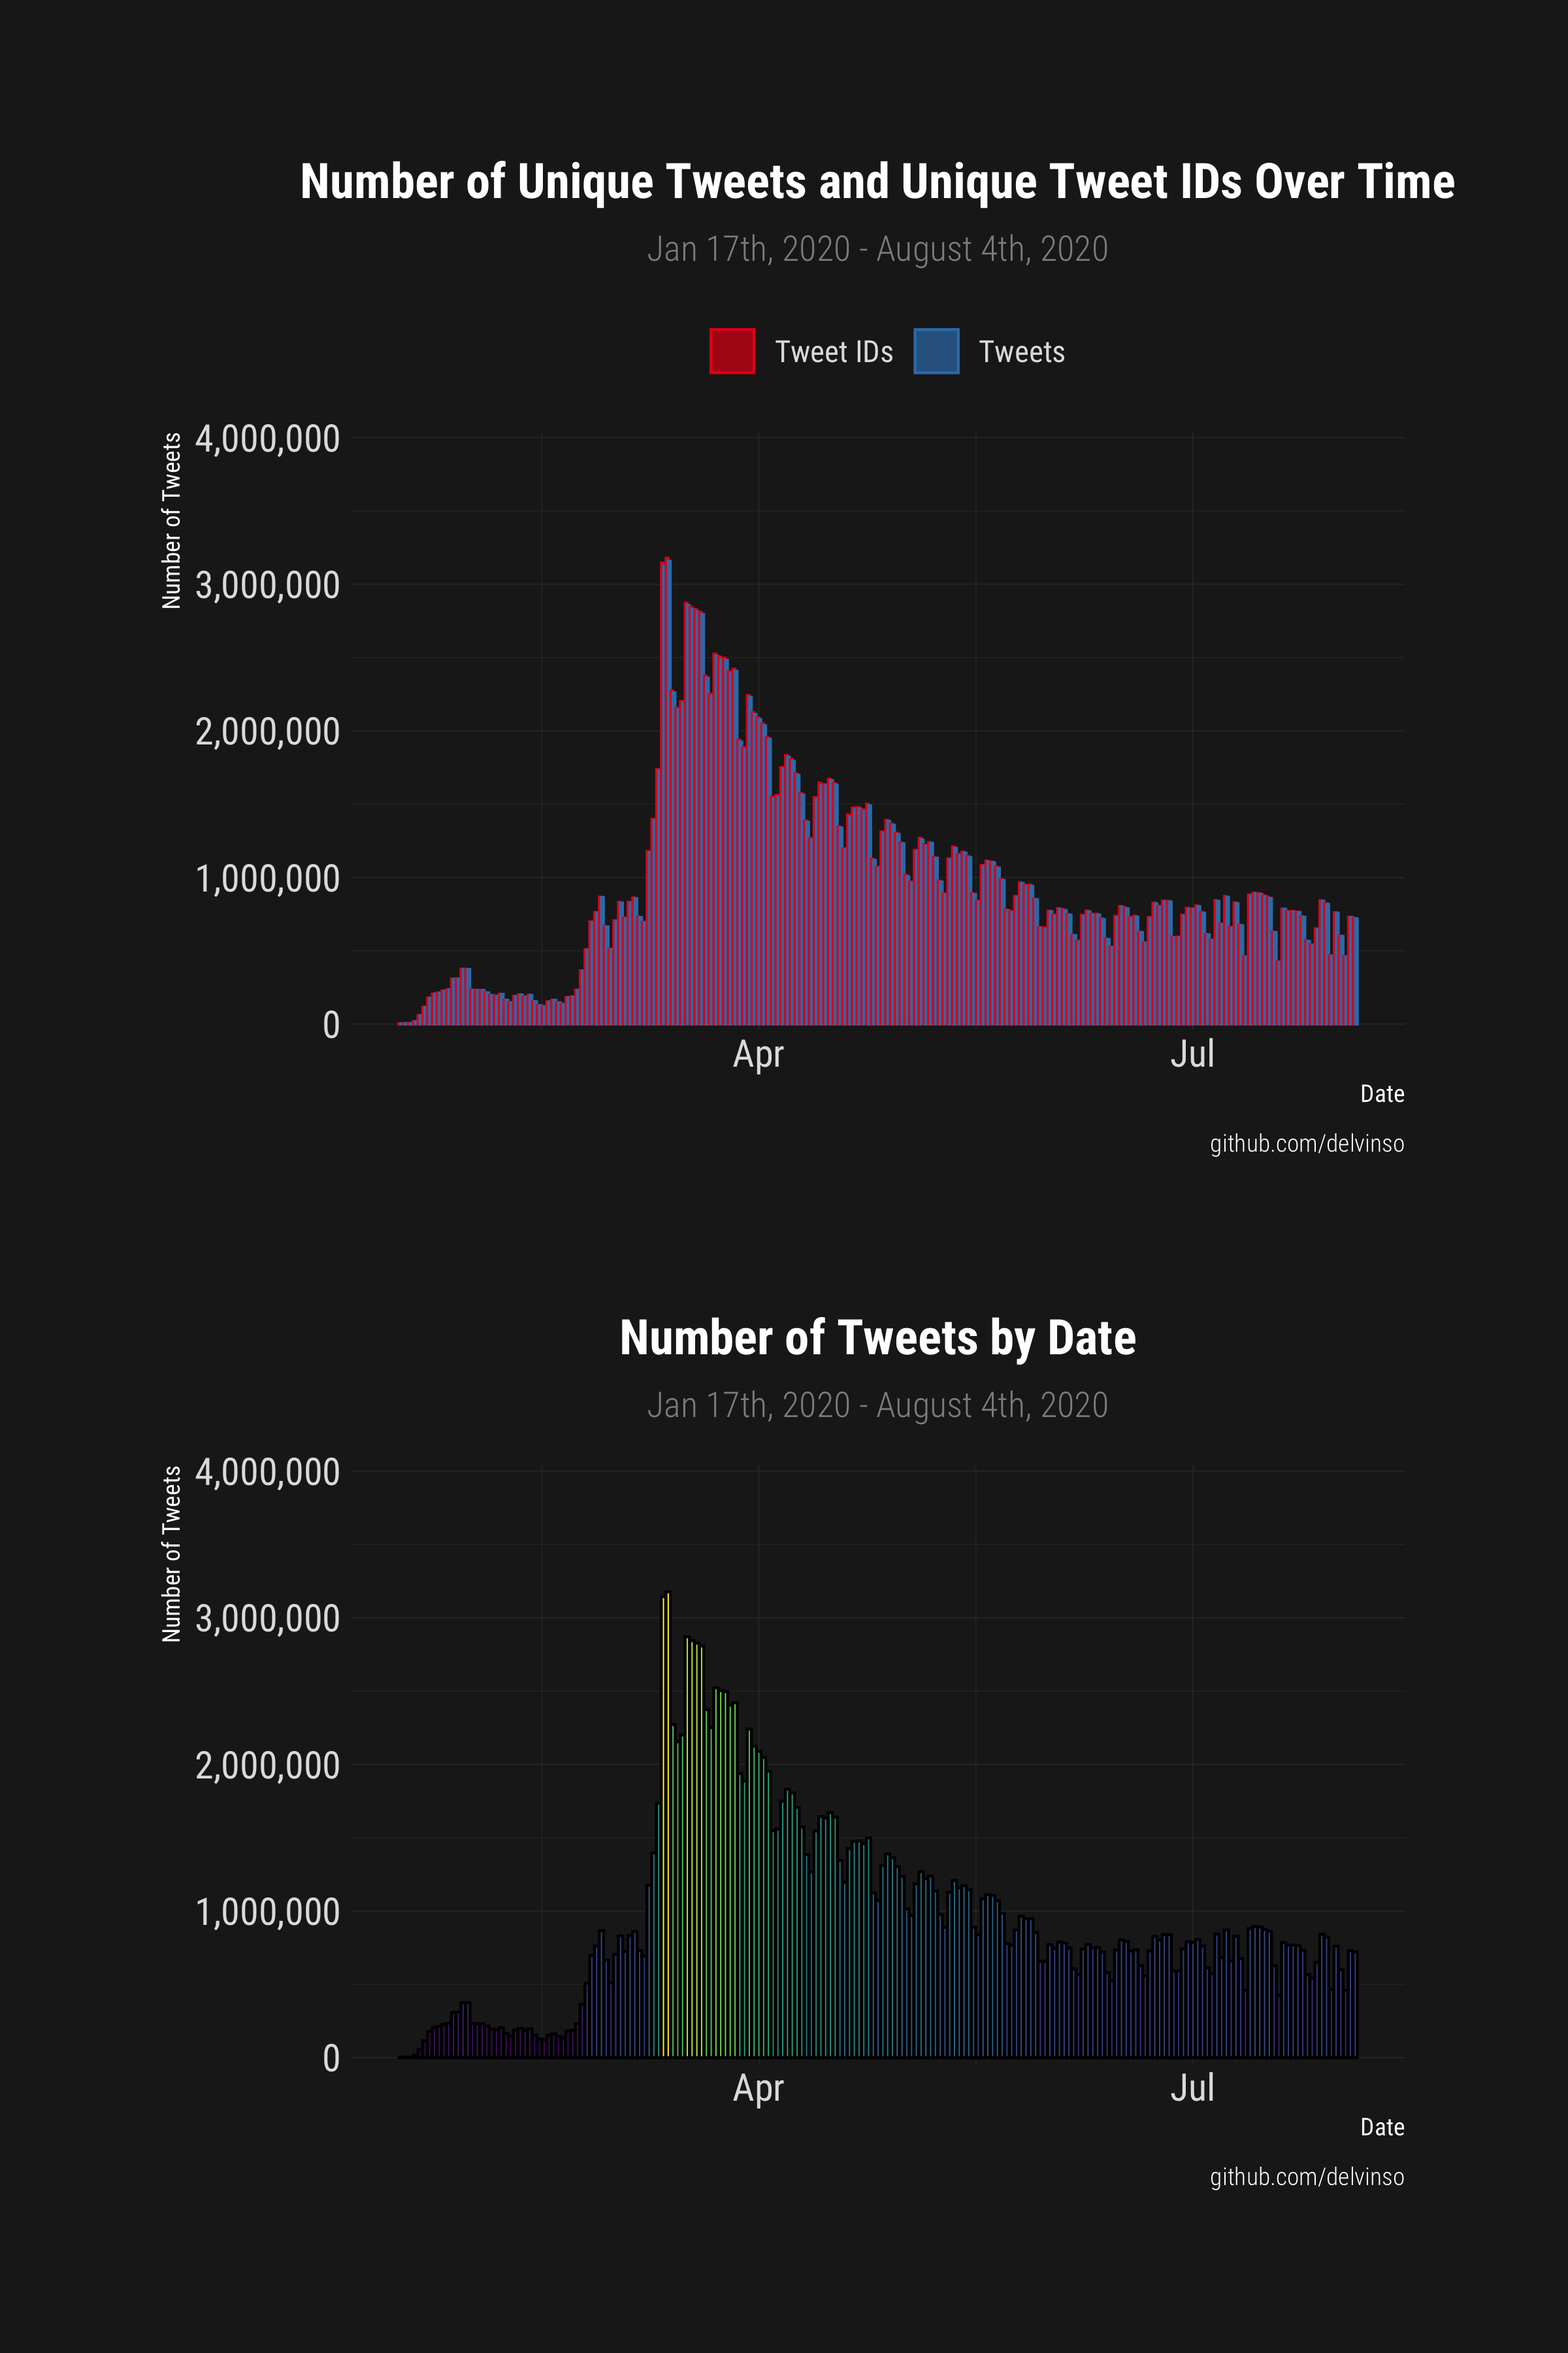
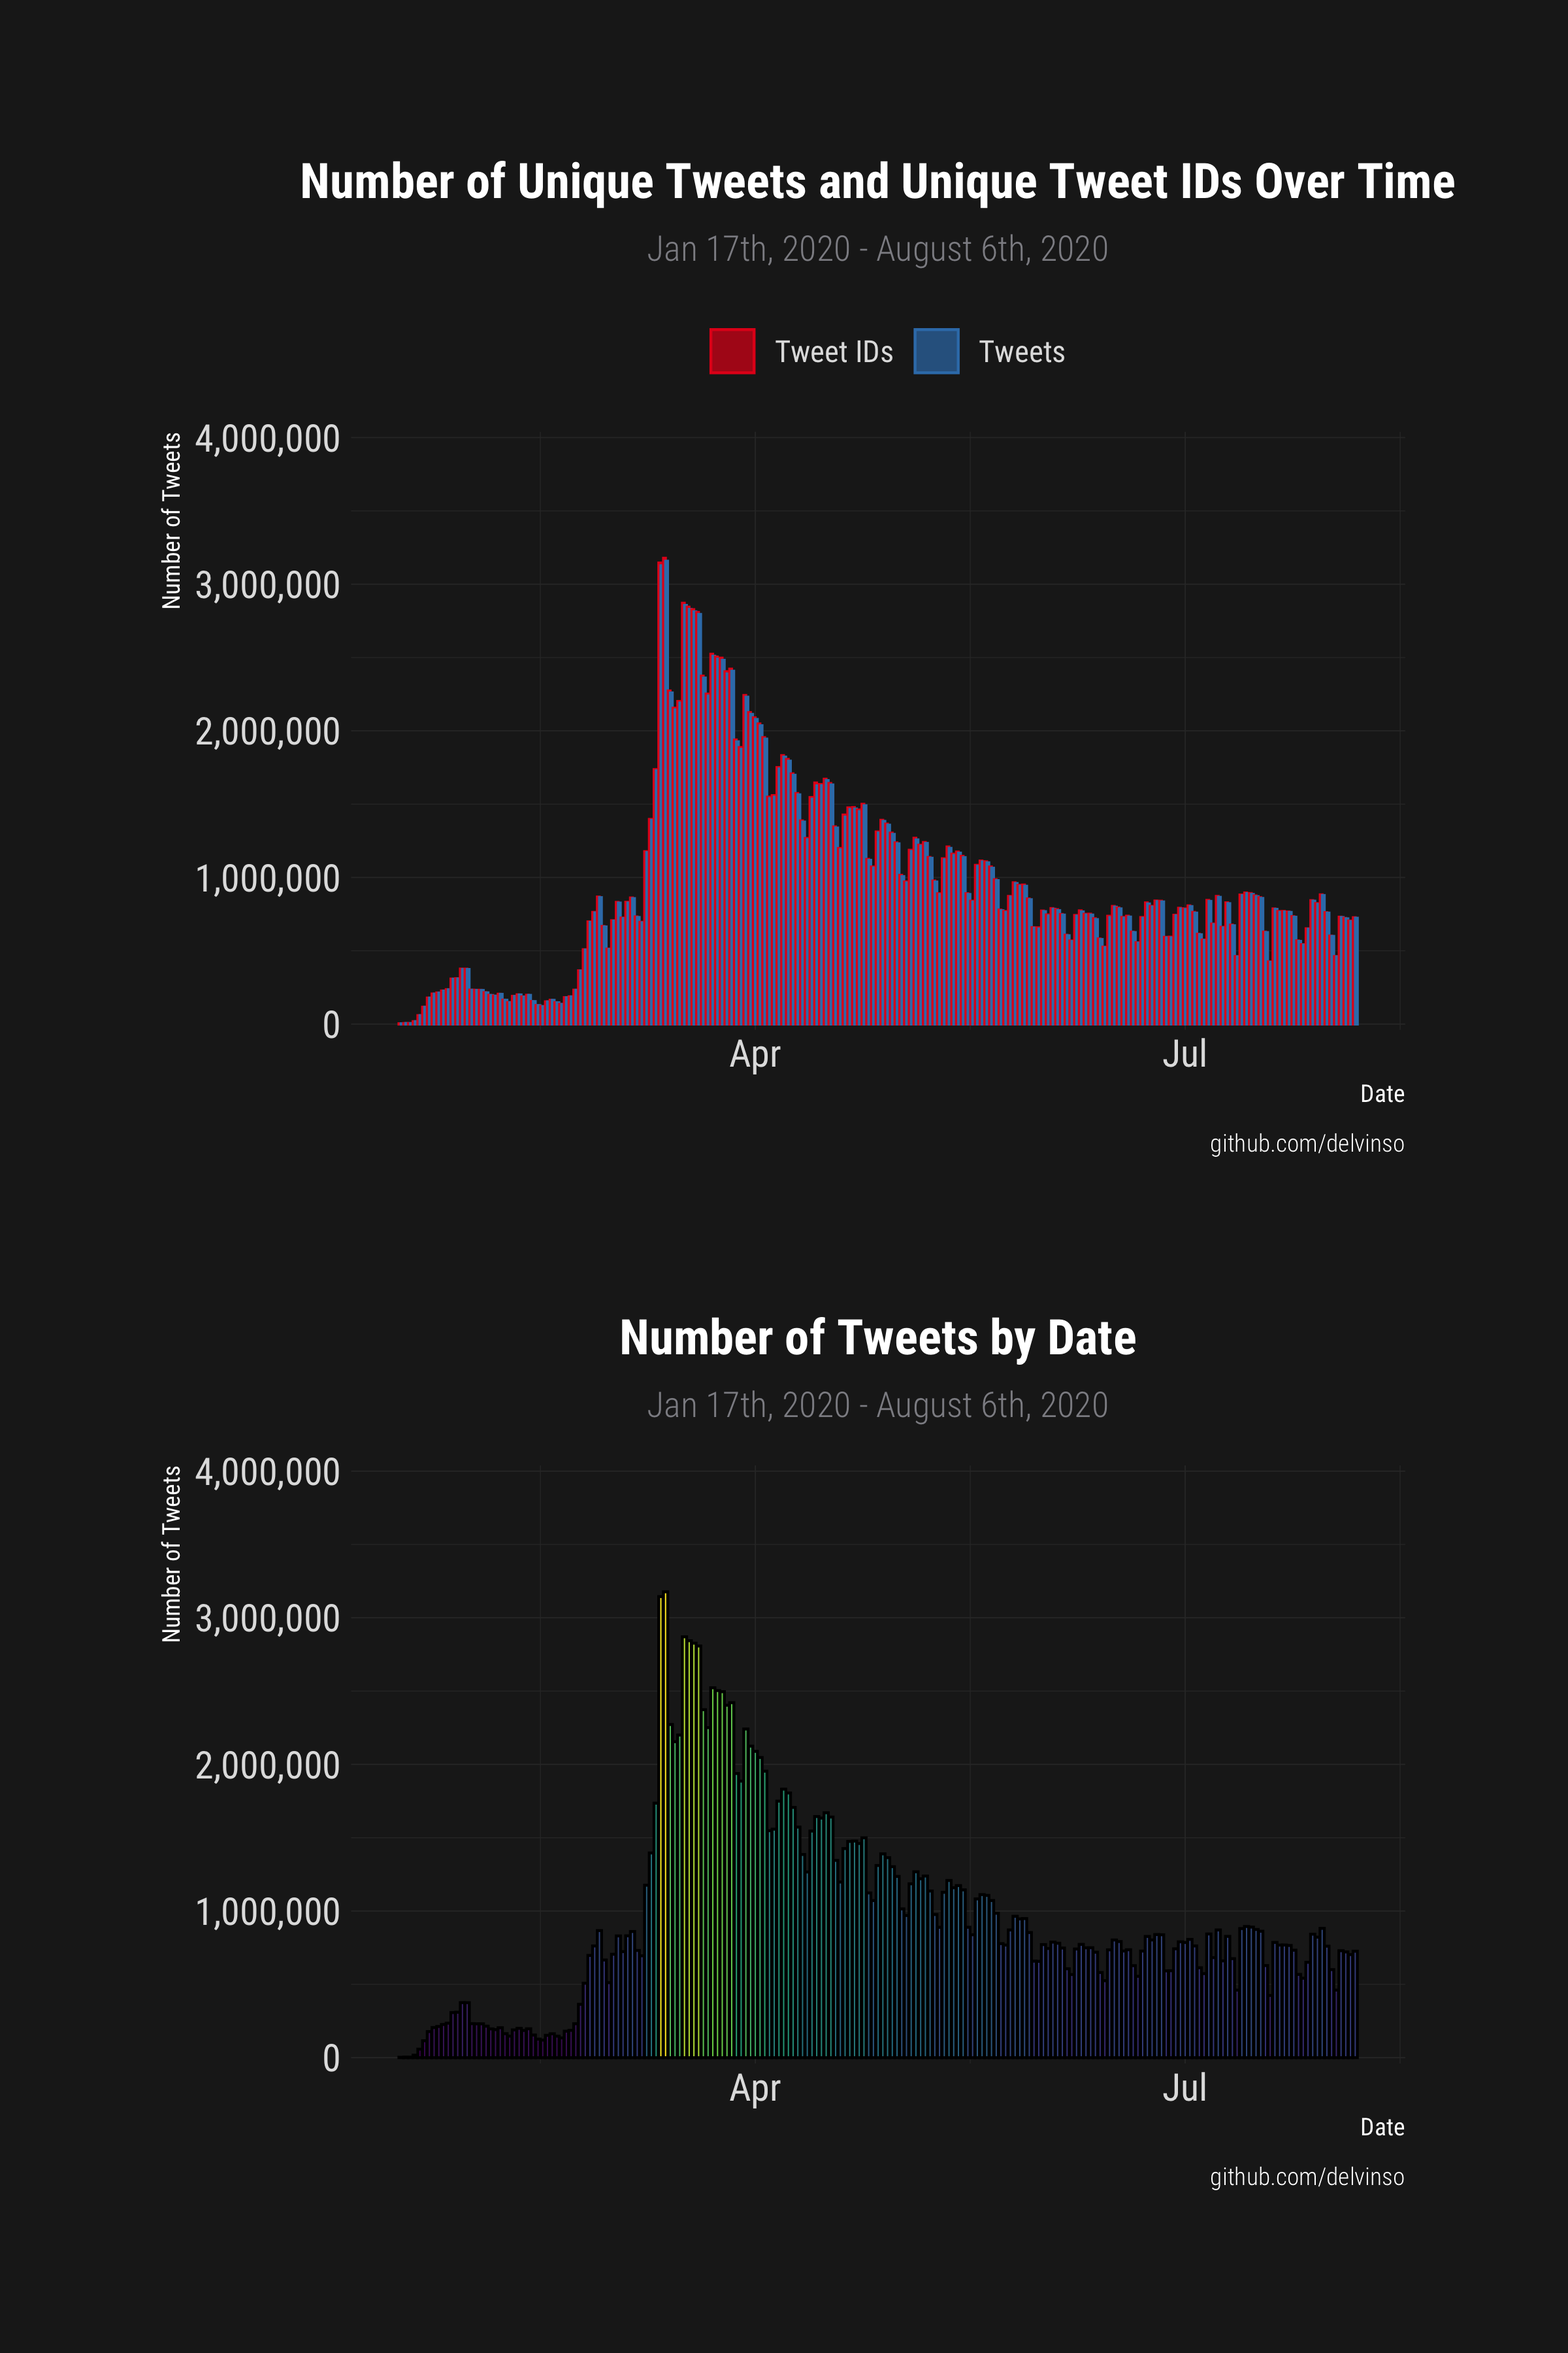
August 7th update. Regenerated files that should have been regenerated..

Changed region(s): [[0.2812, 0.2489, 0.875, 0.4667], [0.2812, 0.6844, 0.875, 0.9022]]

diff --git a/README.md b/README.md
@@ -1,7 +1,7 @@
 
 # covid19_one_hundred_million_unique_tweets
 
-## Last Updated: August 5th, 2020
+## Last Updated: August 7th, 2020
 
 ## Data Description
 _______________________
@@ -68,7 +68,7 @@ __________
 * July 12th 00:00 - 10:00 UTC
 * July 19th 00:00 - 10:15 UTC
 * July 27th 00:00 - 05:00 UTC
-* July 30th 00:00 - 14:00 UTC
+* ~~July 30th 00:00 - 14:00 UTC~~
 ## Contact
 __________
 
